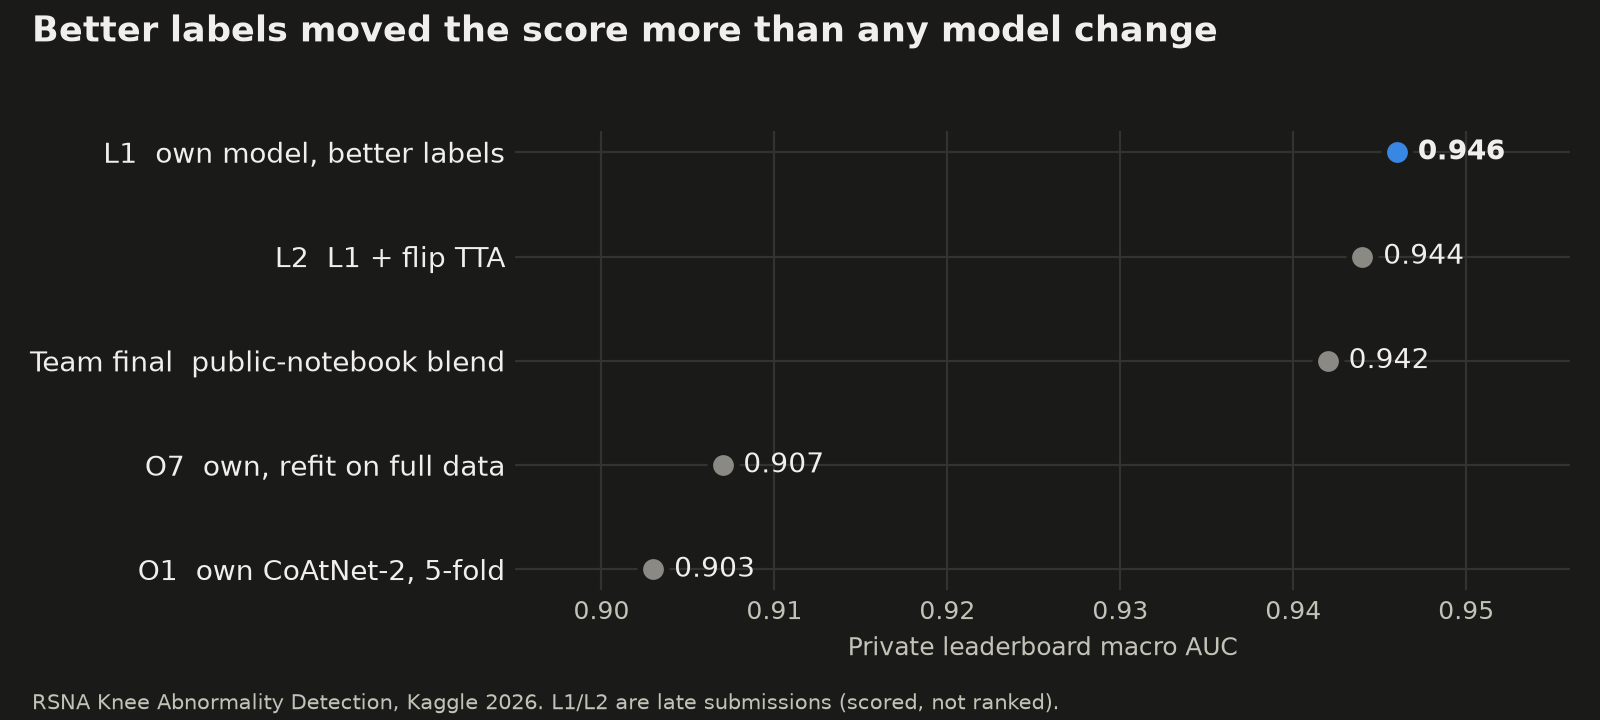
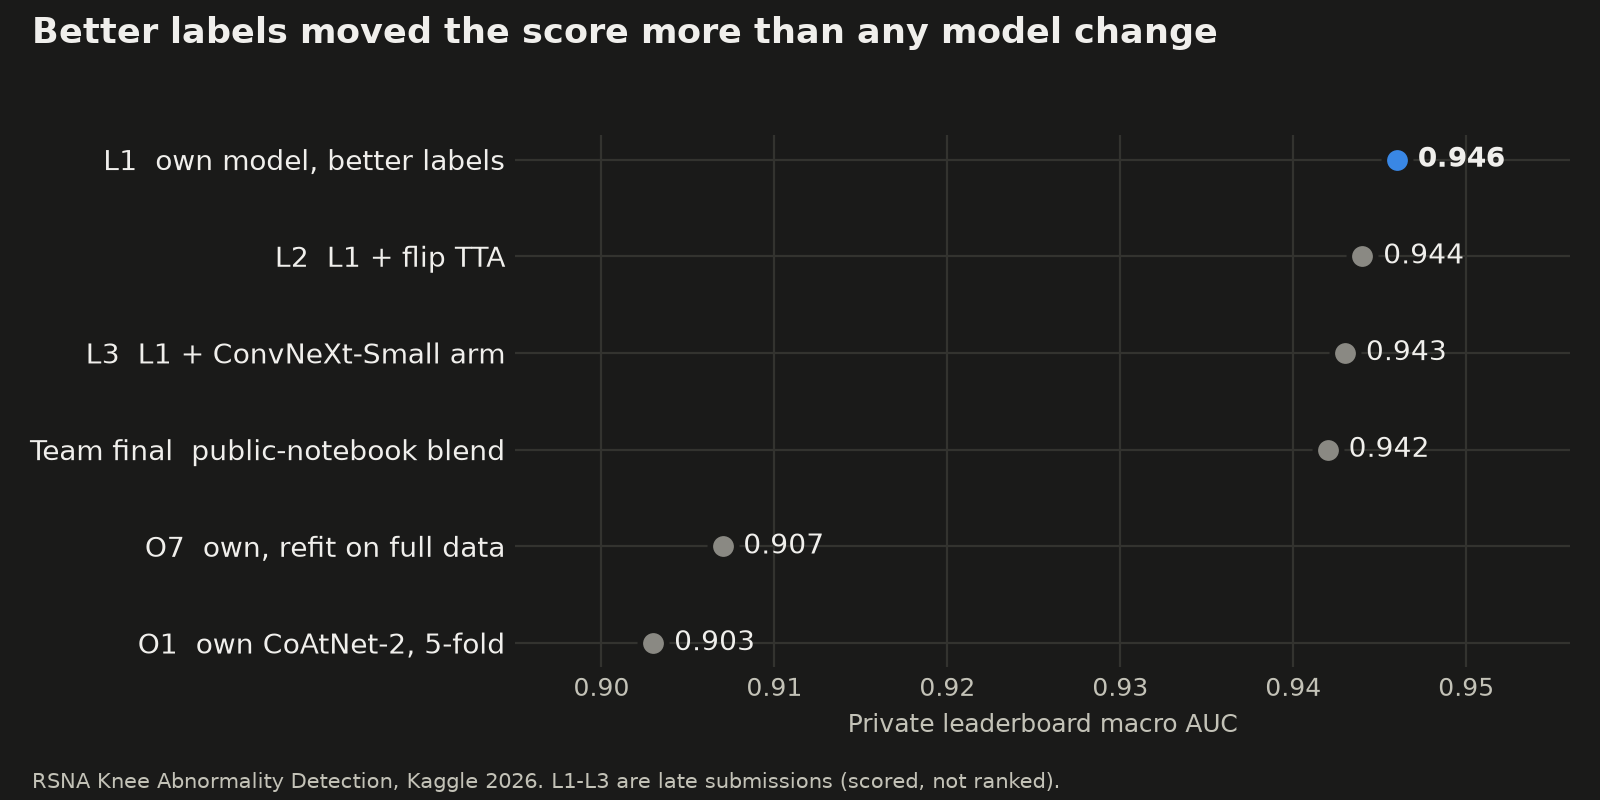
README: L3 result (ConvNeXt-Small arm, private 0.943)
Claude-Session: https://claude.ai/code/session_01NBfC79qgjUpLicjUJVXwrp

diff --git a/tools/plot_results.py b/tools/plot_results.py
@@ -5,11 +5,12 @@ matplotlib.use("Agg")
 import matplotlib.pyplot as plt
 
 OUT = sys.argv[1]
-# (label, private AUC, highlight) -- sources: Kaggle submissions API, read 2026-10-23 / 10-27
+# (label, private AUC, highlight) -- sources: Kaggle submissions API, read 2026-10-23 / 10-27 / 10-28
 ROWS = [
     ("O1  own CoAtNet-2, 5-fold", 0.903, False),
     ("O7  own, refit on full data", 0.907, False),
     ("Team final  public-notebook blend", 0.942, False),
+    ("L3  L1 + ConvNeXt-Small arm", 0.943, False),
     ("L2  L1 + flip TTA", 0.944, False),
     ("L1  own model, better labels", 0.946, True),
 ]
@@ -19,7 +20,7 @@ THEMES = {
 }
 
 for mode, t in THEMES.items():
-    fig, ax = plt.subplots(figsize=(8, 3.6), dpi=200)
+    fig, ax = plt.subplots(figsize=(8, 4.0), dpi=200)
     fig.patch.set_facecolor(t["bg"]); ax.set_facecolor(t["bg"])
     y = list(range(len(ROWS)))
     for yi, (lab, v, hi) in zip(y, ROWS):
@@ -38,7 +39,7 @@ for mode, t in THEMES.items():
     ax.set_xlabel("Private leaderboard macro AUC", color=t["ink2"], fontsize=9)
     fig.suptitle("Better labels moved the score more than any model change",
                  x=0.02, ha="left", fontsize=12.5, fontweight="bold", color=t["ink"])
-    fig.text(0.02, 0.015, "RSNA Knee Abnormality Detection, Kaggle 2026. L1/L2 are late submissions (scored, not ranked).",
+    fig.text(0.02, 0.015, "RSNA Knee Abnormality Detection, Kaggle 2026. L1-L3 are late submissions (scored, not ranked).",
              fontsize=7.5, color=t["ink2"])
     fig.tight_layout(rect=(0, 0.04, 1, 0.95))
     fig.savefig(f"{OUT}/private-auc-{mode}.png", facecolor=t["bg"])

diff --git a/README.md b/README.md
@@ -14,7 +14,7 @@ Write-up with all 68 scored submissions, public vs private:
 
 <picture>
   <source media="(prefers-color-scheme: dark)" srcset="assets/private-auc-dark.png">
-  <img alt="Private AUC per entry: O1 0.903, O7 0.907, team final 0.942, L2 0.944, L1 0.946" src="assets/private-auc-light.png">
+  <img alt="Private AUC per entry: O1 0.903, O7 0.907, team final 0.942, L3 0.943, L2 0.944, L1 0.946" src="assets/private-auc-light.png">
 </picture>
 
 | Entry | What it is | Public | Private |
@@ -27,7 +27,7 @@ Write-up with all 68 scored submissions, public vs private:
 | Team final (10-22) | team Knee_Okay's selected entry (public-notebook blend) | 0.958 | 0.942 (rank 917 / 6,425) |
 | **L1** (late, 10-27) | one own CoAtNet-2 arm, 5 seeds, on the 7th-place team's public labels | 0.956 | **0.946** |
 | L2 (late, 10-27) | L1 + horizontal-flip TTA | 0.955 | 0.944 |
-| L3 (late) | L1 + a ConvNeXt-Small arm on the same labels, no TTA | pending | pending |
+| L3 (late, 10-28) | L1 + a ConvNeXt-Small arm on the same labels, rank blend, no TTA | 0.954 | 0.943 |
 
 Late submissions are scored but never enter the leaderboard; 0.946 private would have
 placed about 124-161.
@@ -44,7 +44,8 @@ What moved the score, in order of size:
 
 Things that did not help when measured: bigger encoders, a stronger LLM teacher,
 per-label pooling tuned on the 58 gold studies (it overfits them), per-label spatial
-attention, unfreezing the whole backbone, and widening a blend with more arms.
+attention, unfreezing the whole backbone, widening a blend with more arms, horizontal-flip
+TTA (L2, -0.002) and a second architecture on the same labels (L3, -0.003).
 
 ## Pipeline
 
